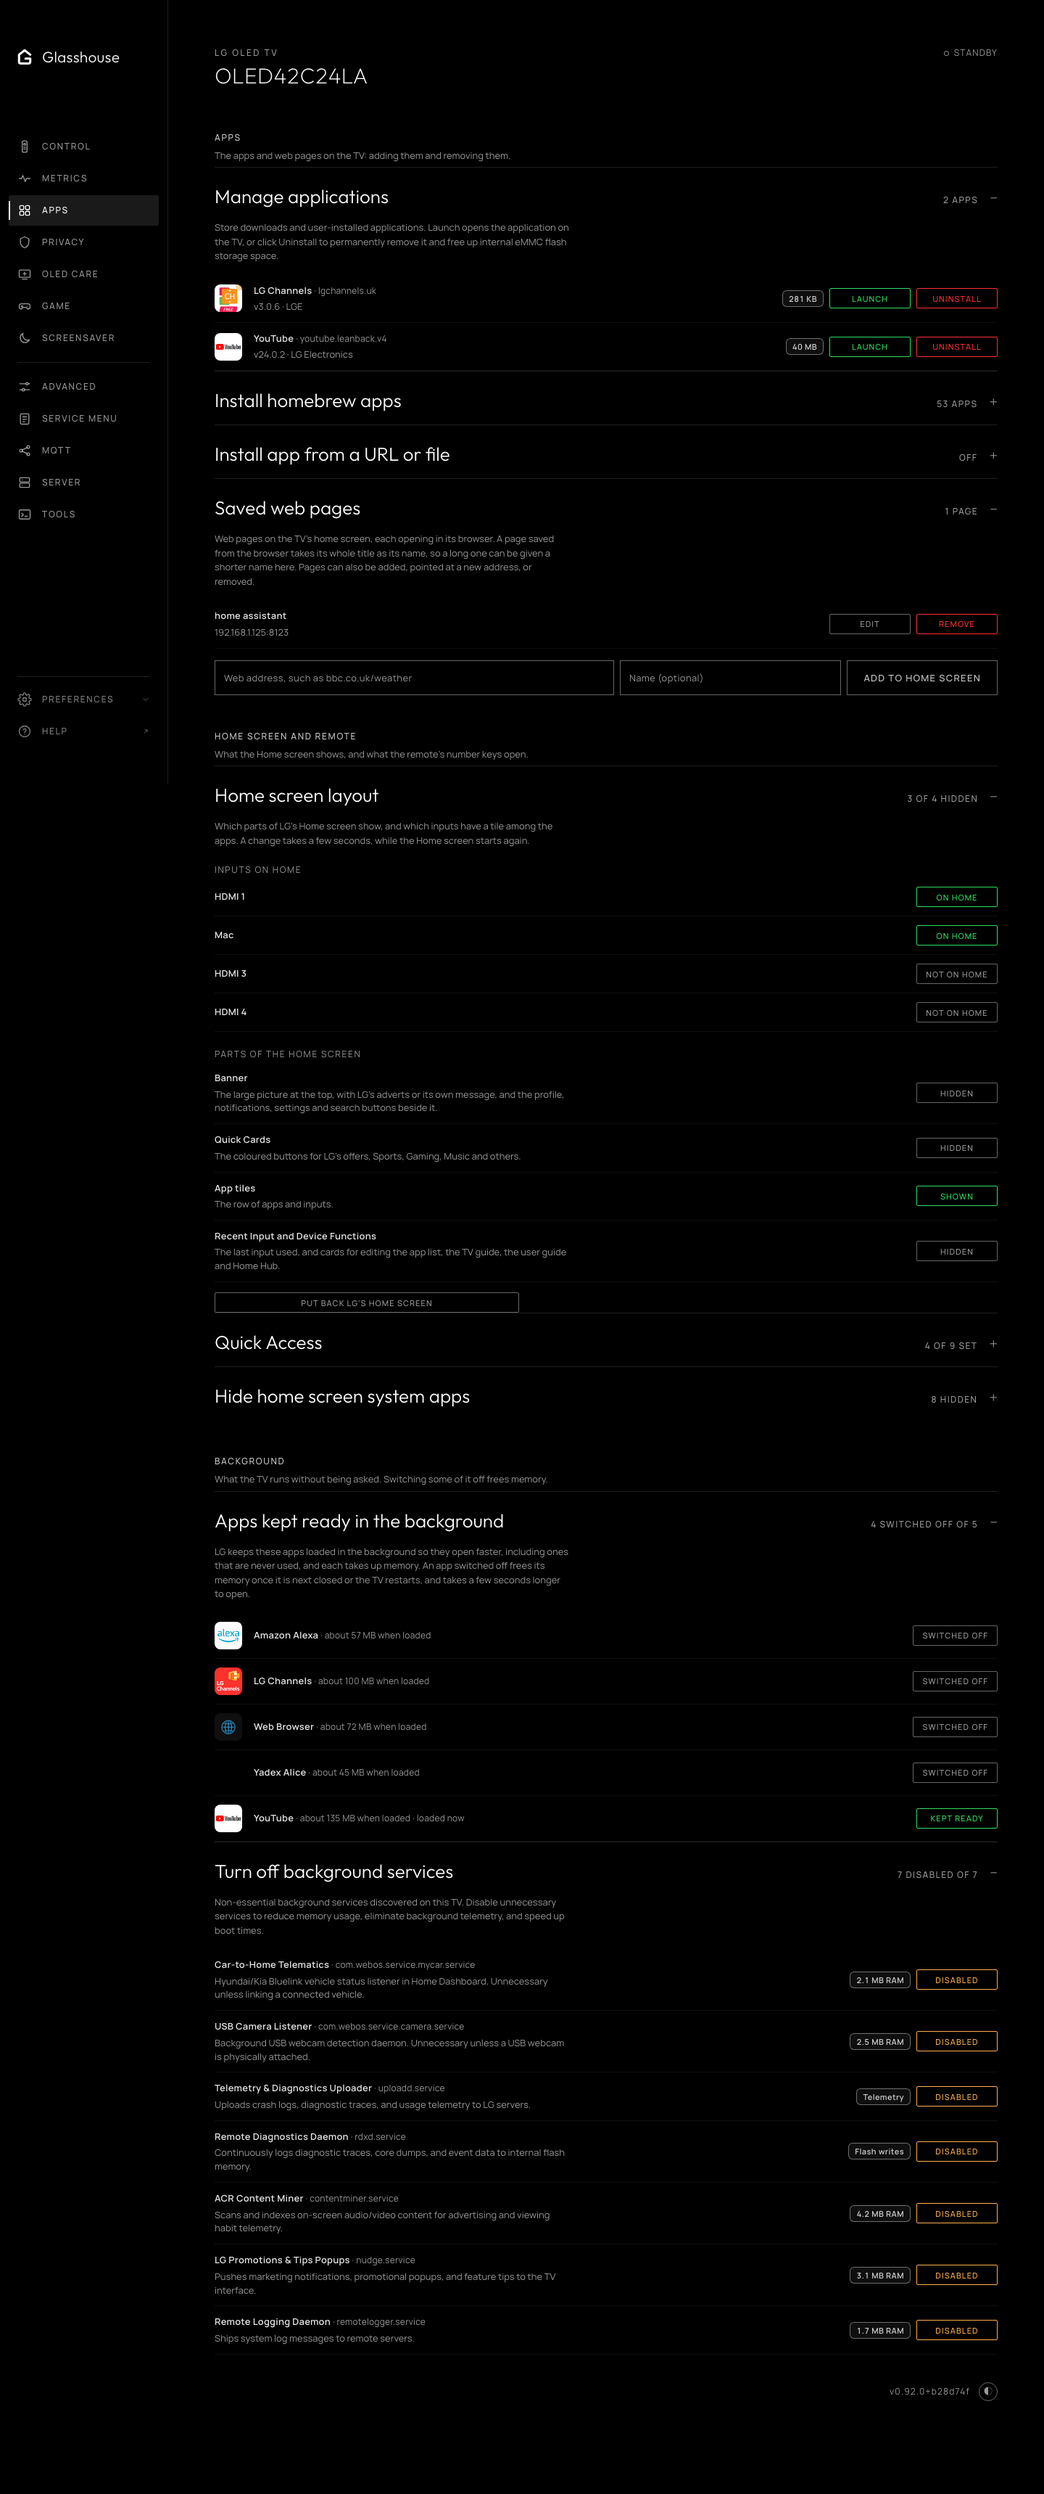
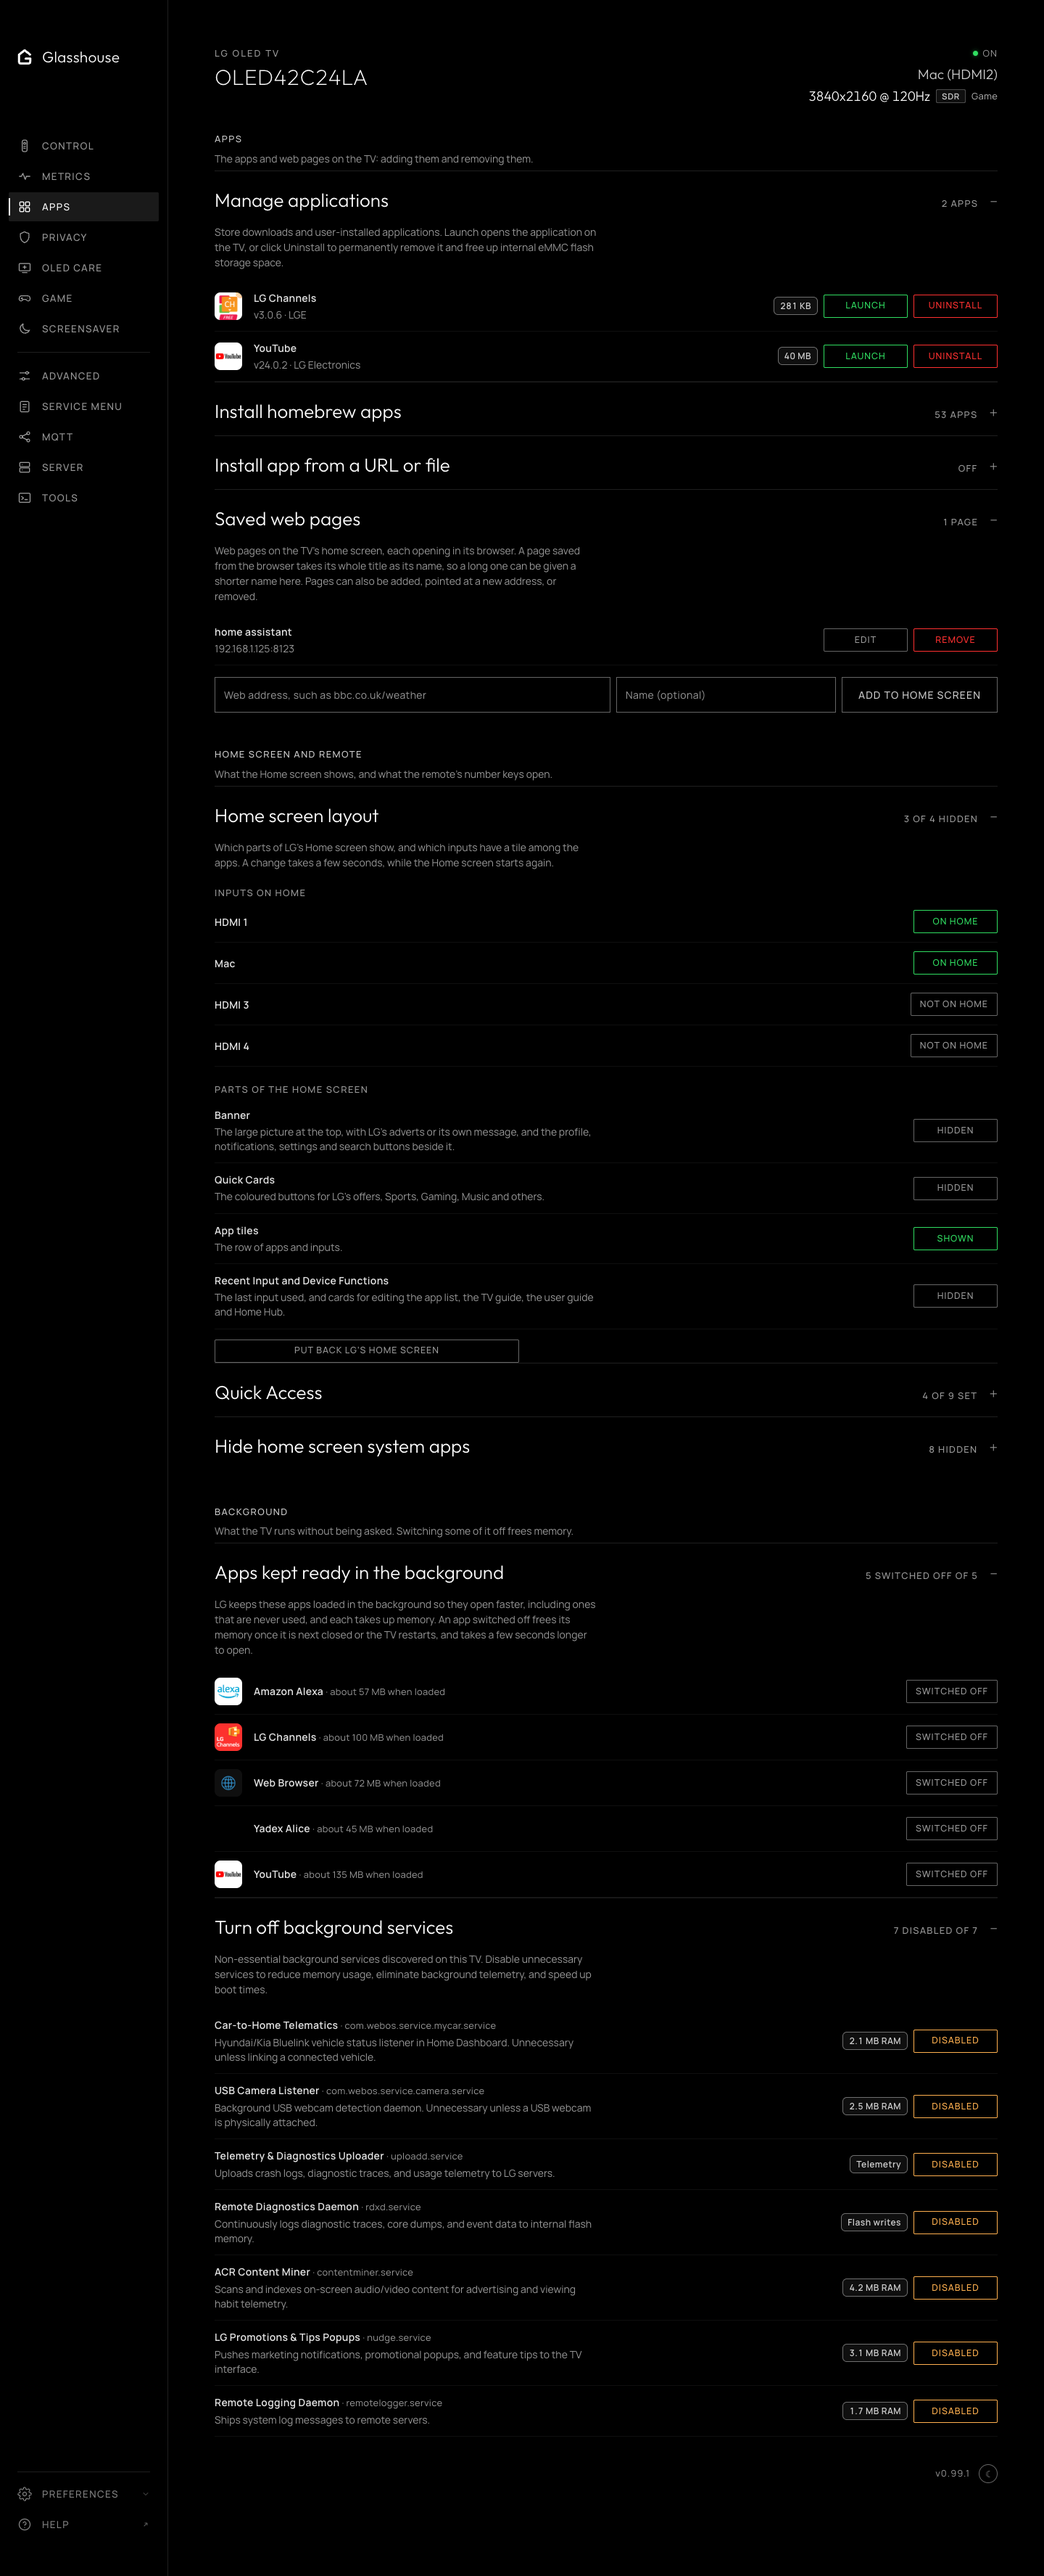
Retake the dashboard screenshots, and describe the Android app's 0.5.0
The dashboard screenshots predated the TV's uptime leaving the footer, and the
Server, Advanced, Privacy and Metrics tabs have gained sections since: settings
backups, watch time, screen-time limits, timers, custom ad blocking and the
Magic Remote card. All are retaken from a C2 on 0.99.1, with the network's name
shown as Home Wi-Fi, and their descriptions name what is now on them.

The Android page gains the TV list's power, volume and Open dashboard, the
last state shown at launch, pull-to-refresh and the Quick Settings tile. The
testing page's Unit tests link starts at the job's first line rather than the
blank one before it.

diff --git a/docs/development/testing.md b/docs/development/testing.md
@@ -24,12 +24,12 @@ something is wrong, and Home Assistant and the TV's own browser fail quietly.
 | [`check-entities.py`](https://github.com/rorygallagher2024/glasshouse/blob/main/.github/workflows/checks.yml#L57-L58) | A Home Assistant entity reading a field the TV's telemetry does not have, checked against a B8's real telemetry. |
 | [`check-upgrade.js`](https://github.com/rorygallagher2024/glasshouse/blob/main/.github/workflows/checks.yml#L61-L62) | A release the updater already installed on a TV would refuse. The updaters of the latest release and the oldest still in use install the change in place, from a local copy, as a TV does when it updates; 0.82.0 and 0.82.1 could not be installed that way (#586). |
 | [`Package build`](https://github.com/rorygallagher2024/glasshouse/blob/main/.github/workflows/checks.yml#L65-L77) | The Homebrew Channel `.ipk` still builds, and passes the Homebrew Channel's own compatibility check for webOS 2.2 and later, the oldest confirmed (a 49LF632V). |
-| [`Unit tests`](https://github.com/rorygallagher2024/glasshouse/blob/main/.github/workflows/checks.yml#L80-L97) | Each part of the server, and one suite that starts the whole server against a fake TV and MQTT broker, with a TV that answers, one that answers late, wrongly or not at all, and MQTT disabled, and checking the dashboard keeps answering and telemetry keeps flowing. |
+| [`Unit tests`](https://github.com/rorygallagher2024/glasshouse/blob/main/.github/workflows/checks.yml#L81-L97) | Each part of the server, and one suite that starts the whole server against a fake TV and MQTT broker, with a TV that answers, one that answers late, wrongly or not at all, and MQTT disabled, and checking the dashboard keeps answering and telemetry keeps flowing. |
 
 ## On each supported TV's node
 
 The unit tests run on node 0.10 (webOS 2, a 49LF632V), 0.12 (webOS 4, the B8), 8.12 (webOS 6), 16
-(webOS 9, the C2), 20 and 24, each in parallel in the [`tv-node` job](https://github.com/rorygallagher2024/glasshouse/blob/main/.github/workflows/checks.yml#L80-L97). A computer's node
+(webOS 9, the C2), 20 and 24, each in parallel in the [`tv-node` job](https://github.com/rorygallagher2024/glasshouse/blob/main/.github/workflows/checks.yml#L81-L97). A computer's node
 accepts calls an older one lacks.
 
 So the tests run on node 0.10 as well, and use none of what it lacks: no

diff --git a/docs/apps/android.md b/docs/apps/android.md
@@ -1,6 +1,6 @@
 # Glasshouse for Android
 
-[Glasshouse for Android](https://github.com/rorygallagher2024/glasshouse-android) is an Android companion app for Glasshouse on rooted LG webOS TVs. It keeps a list of TVs on your network, shows which are online, wakes TVs with Wake-on-LAN, and opens each TV's dashboard full screen.
+[Glasshouse for Android](https://github.com/rorygallagher2024/glasshouse-android) is an Android companion app for Glasshouse on rooted LG webOS TVs. It keeps a list of TVs on your network, shows each one's state and what it is showing, turns TVs on and off (with Wake-on-LAN when they are fully off), and opens each TV's dashboard full screen.
 
 The app runs on Android 10 and later, and follows the dashboard's design: monochrome styling, Manrope typography, and light/dark theme matching.
 
@@ -34,6 +34,12 @@ TVs can be added to the app in three ways:
 * **Manual address**: Enter the TV's IP address or hostname directly. The default port `8080` is used if none is specified.
 
 Saved TVs, including their tokens, remain stored securely in private app storage and are excluded from cloud backups and device transfers.
+
+## The TV list
+
+Each TV is a card with its model number, the name given to it and its power state, and, while it is on, what is on screen and its volume, with the remote's volume steps and mute. **Turn on** or **Turn off** works from the list without opening the dashboard, and keeps saying so until the TV reports the change; **Open dashboard** opens it. The list opens on each TV's last state, shown faint until the TV answers, and pulling it down checks every TV at once.
+
+A **Quick Settings tile** turns one TV on and off: the one chosen with **Use for Quick Settings tile** in its card's menu, or the only one.
 
 ## Turning a TV on
 

diff --git a/docs/dashboard/advanced.md b/docs/dashboard/advanced.md
@@ -75,6 +75,6 @@ Per-port settings for HDMI Deep Colour (extended bandwidth for 4K HDR) and audio
 
 * **Standby light:** Toggles the red standby indicator LED located on the front bezel of the TV.
 
-![Advanced tab: Quick Boot, Stay connected when off with its nightly power-down hours, Wake-on-LAN, system updates, LG logo, auto device detection and the standby light](../screenshots/advanced.png)
+![Advanced tab: Quick Boot, Stay connected when off, Always Ready, nightly power-down and Wake-on-LAN, the On and Off Timers, screen-time limits, system updates, LG logo, sound, HDMI inputs, devices and the standby light](../screenshots/advanced.png)
 
-*The TV's own settings, grouped as Power, System updates, Display, Sound, HDMI inputs, Devices and Front lights.*
+*The TV's own settings, grouped as Power & standby, Timers, Screen time, System updates, Display, Sound, HDMI inputs, Devices and Front lights.*

diff --git a/docs/dashboard/privacy.md b/docs/dashboard/privacy.md
@@ -33,6 +33,6 @@ After switching away from **everything**, LG's own apps, such as the Content Sto
 
 What ACR collects and what LG Ad Solutions does with it is set out in [What LG's ACR does](../ACR.md).
 
-![Privacy tab: an overview of what is still on, then the ad and telemetry blocker, advertising identifier, the data collection agreements grouped by subject with toggles, and what is running now](../screenshots/privacy.png)
+![Privacy tab: an overview of what is still on, then the ad and telemetry blocker, advertising identifier, the data collection agreements grouped by subject with toggles, what is running now, and custom ad blocking](../screenshots/privacy.png)
 
-*Privacy controls, data agreements, advertising ID and LG telemetry blocking.*
+*Privacy controls, data agreements, advertising ID, LG telemetry blocking and custom ad blocking.*

diff --git a/README.md b/README.md
@@ -78,7 +78,7 @@ This project is intended to give a rooted webOS TV a useful local control surfac
 ## Screenshots
 
 <p align="center">
-  <a href="docs/screenshots/dashboard.png"><img src="docs/screenshots/dashboard.png" alt="Metrics tab: SoC temperature, system readouts, storage, Magic Remote battery and HDMI ports, dark theme (OLED42C24LA)" width="440"></a>
+  <a href="docs/screenshots/dashboard.png"><img src="docs/screenshots/dashboard.png" alt="Metrics tab: SoC temperature, system readouts, storage, watch time, Magic Remote battery and HDMI ports, dark theme (OLED42C24LA)" width="440"></a>
   &nbsp;
   <a href="docs/screenshots/dashboard-light.png"><img src="docs/screenshots/dashboard-light.png" alt="Control tab: panel, source, volume, playback, sleep timer and power, light theme (OLED42C24LA)" width="440"></a>
   <br>

diff --git a/docs/index.md b/docs/index.md
@@ -65,7 +65,7 @@ This project is intended to give a rooted webOS TV a useful local control surfac
 ### Web dashboard
 
 <p align="center">
-  <a href="screenshots/dashboard.png"><img src="screenshots/dashboard.png" alt="Metrics tab: SoC temperature, system readouts, storage, Magic Remote battery and HDMI ports, dark theme (OLED42C24LA)" width="440"></a>
+  <a href="screenshots/dashboard.png"><img src="screenshots/dashboard.png" alt="Metrics tab: SoC temperature, system readouts, storage, watch time, Magic Remote battery and HDMI ports, dark theme (OLED42C24LA)" width="440"></a>
   &nbsp;
   <a href="screenshots/dashboard-light.png"><img src="screenshots/dashboard-light.png" alt="Control tab: panel, source, volume, playback, sleep timer and power, light theme (OLED42C24LA)" width="440"></a>
   <br>

diff --git a/docs/dashboard/server.md b/docs/dashboard/server.md
@@ -2,9 +2,9 @@
 
 The **Server** tab, `/?tab=server`, holds Glasshouse's own settings: Glasshouse itself and an Advanced section for developers and home-lab setups. Preferences for this browser (theme, sidebar, and language) are located in the sidebar navigation area.
 
-![Server tab: Glasshouse's version and updates, the app on the TV's home screen, and the Advanced section](../screenshots/server.png)
+![Server tab: Glasshouse's version and updates, server health, the daily update check, watch time, the settings backup and daily backup, the app on the TV's home screen, and the Advanced section](../screenshots/server.png)
 
-*Glasshouse's updates and the Advanced section.*
+*Glasshouse's updates, watch time, settings backups and the Advanced section.*
 
 ## Glasshouse
 

diff --git a/docs/dashboard/index.md b/docs/dashboard/index.md
@@ -22,7 +22,7 @@ The page works with no internet access, and has a dark/light mode toggle (via th
 
 ## In both themes
 
-![Metrics tab: SoC temperature, system readouts, storage, Magic Remote battery and HDMI ports, dark theme (OLED42C24LA)](../screenshots/dashboard.png)
+![Metrics tab: SoC temperature, system readouts, storage, watch time, Magic Remote battery and HDMI ports, dark theme (OLED42C24LA)](../screenshots/dashboard.png)
 
 ![Control tab: panel, source, volume, playback, sleep timer and power, light theme (OLED42C24LA)](../screenshots/dashboard-light.png)
 
